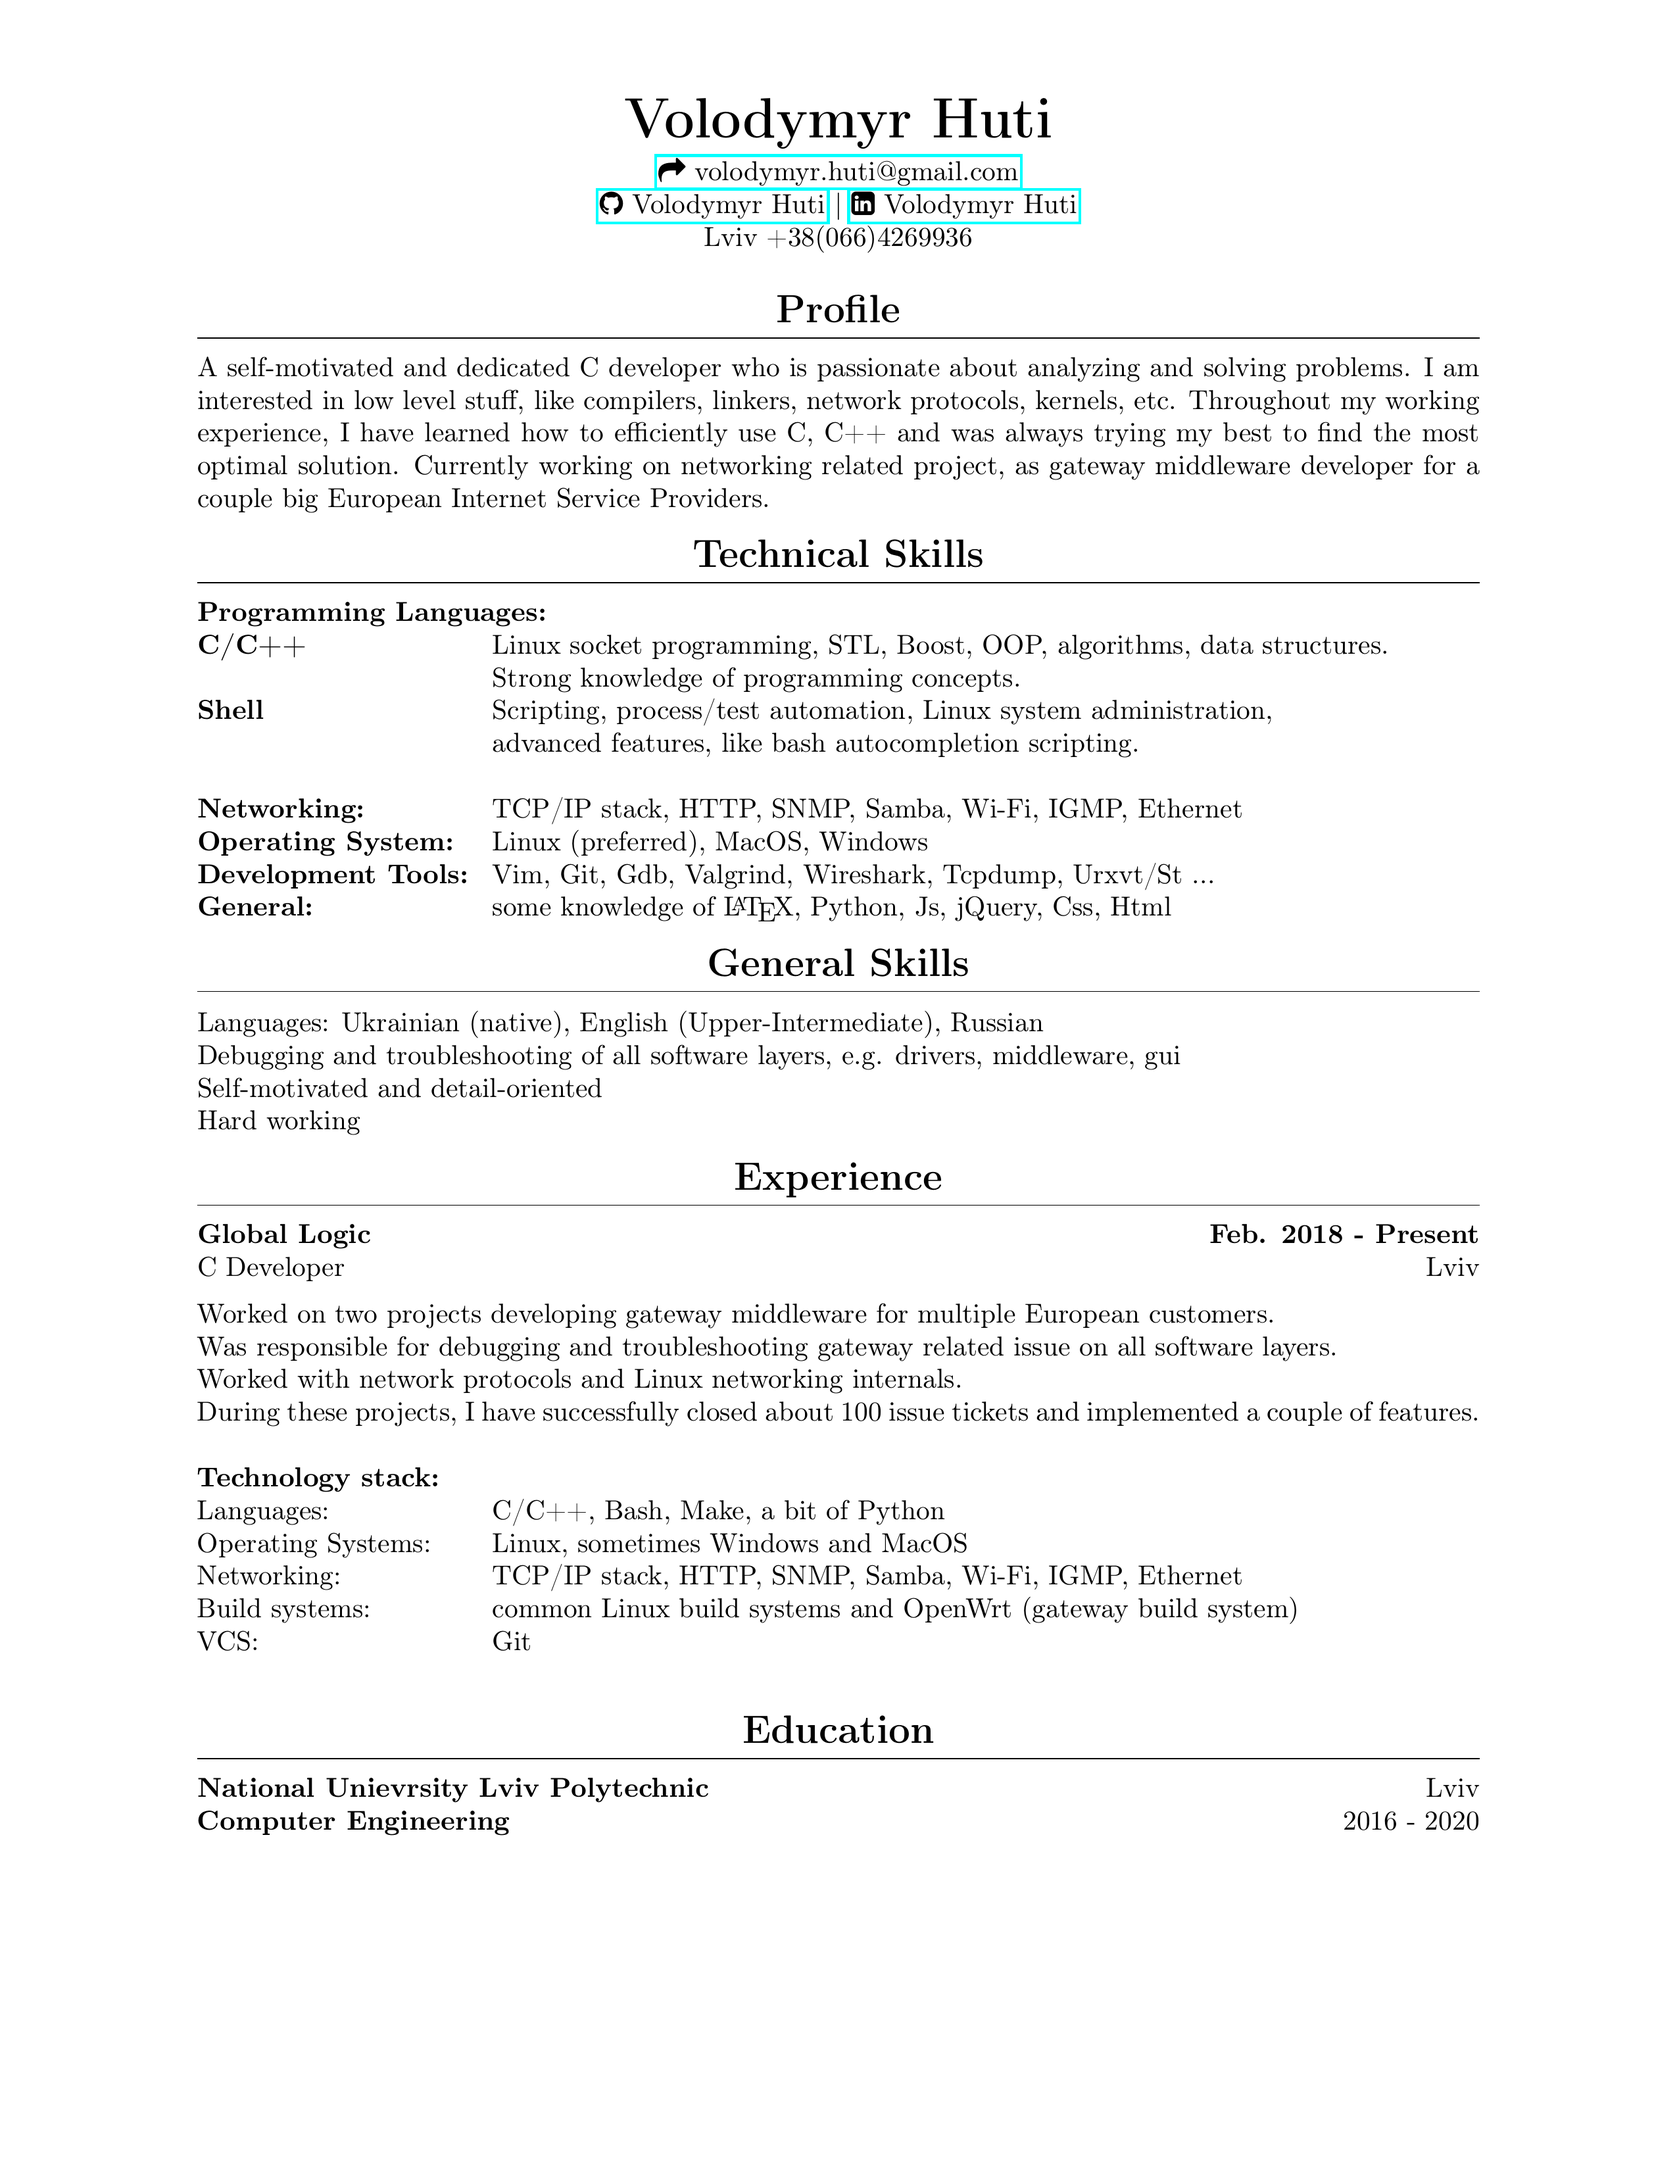
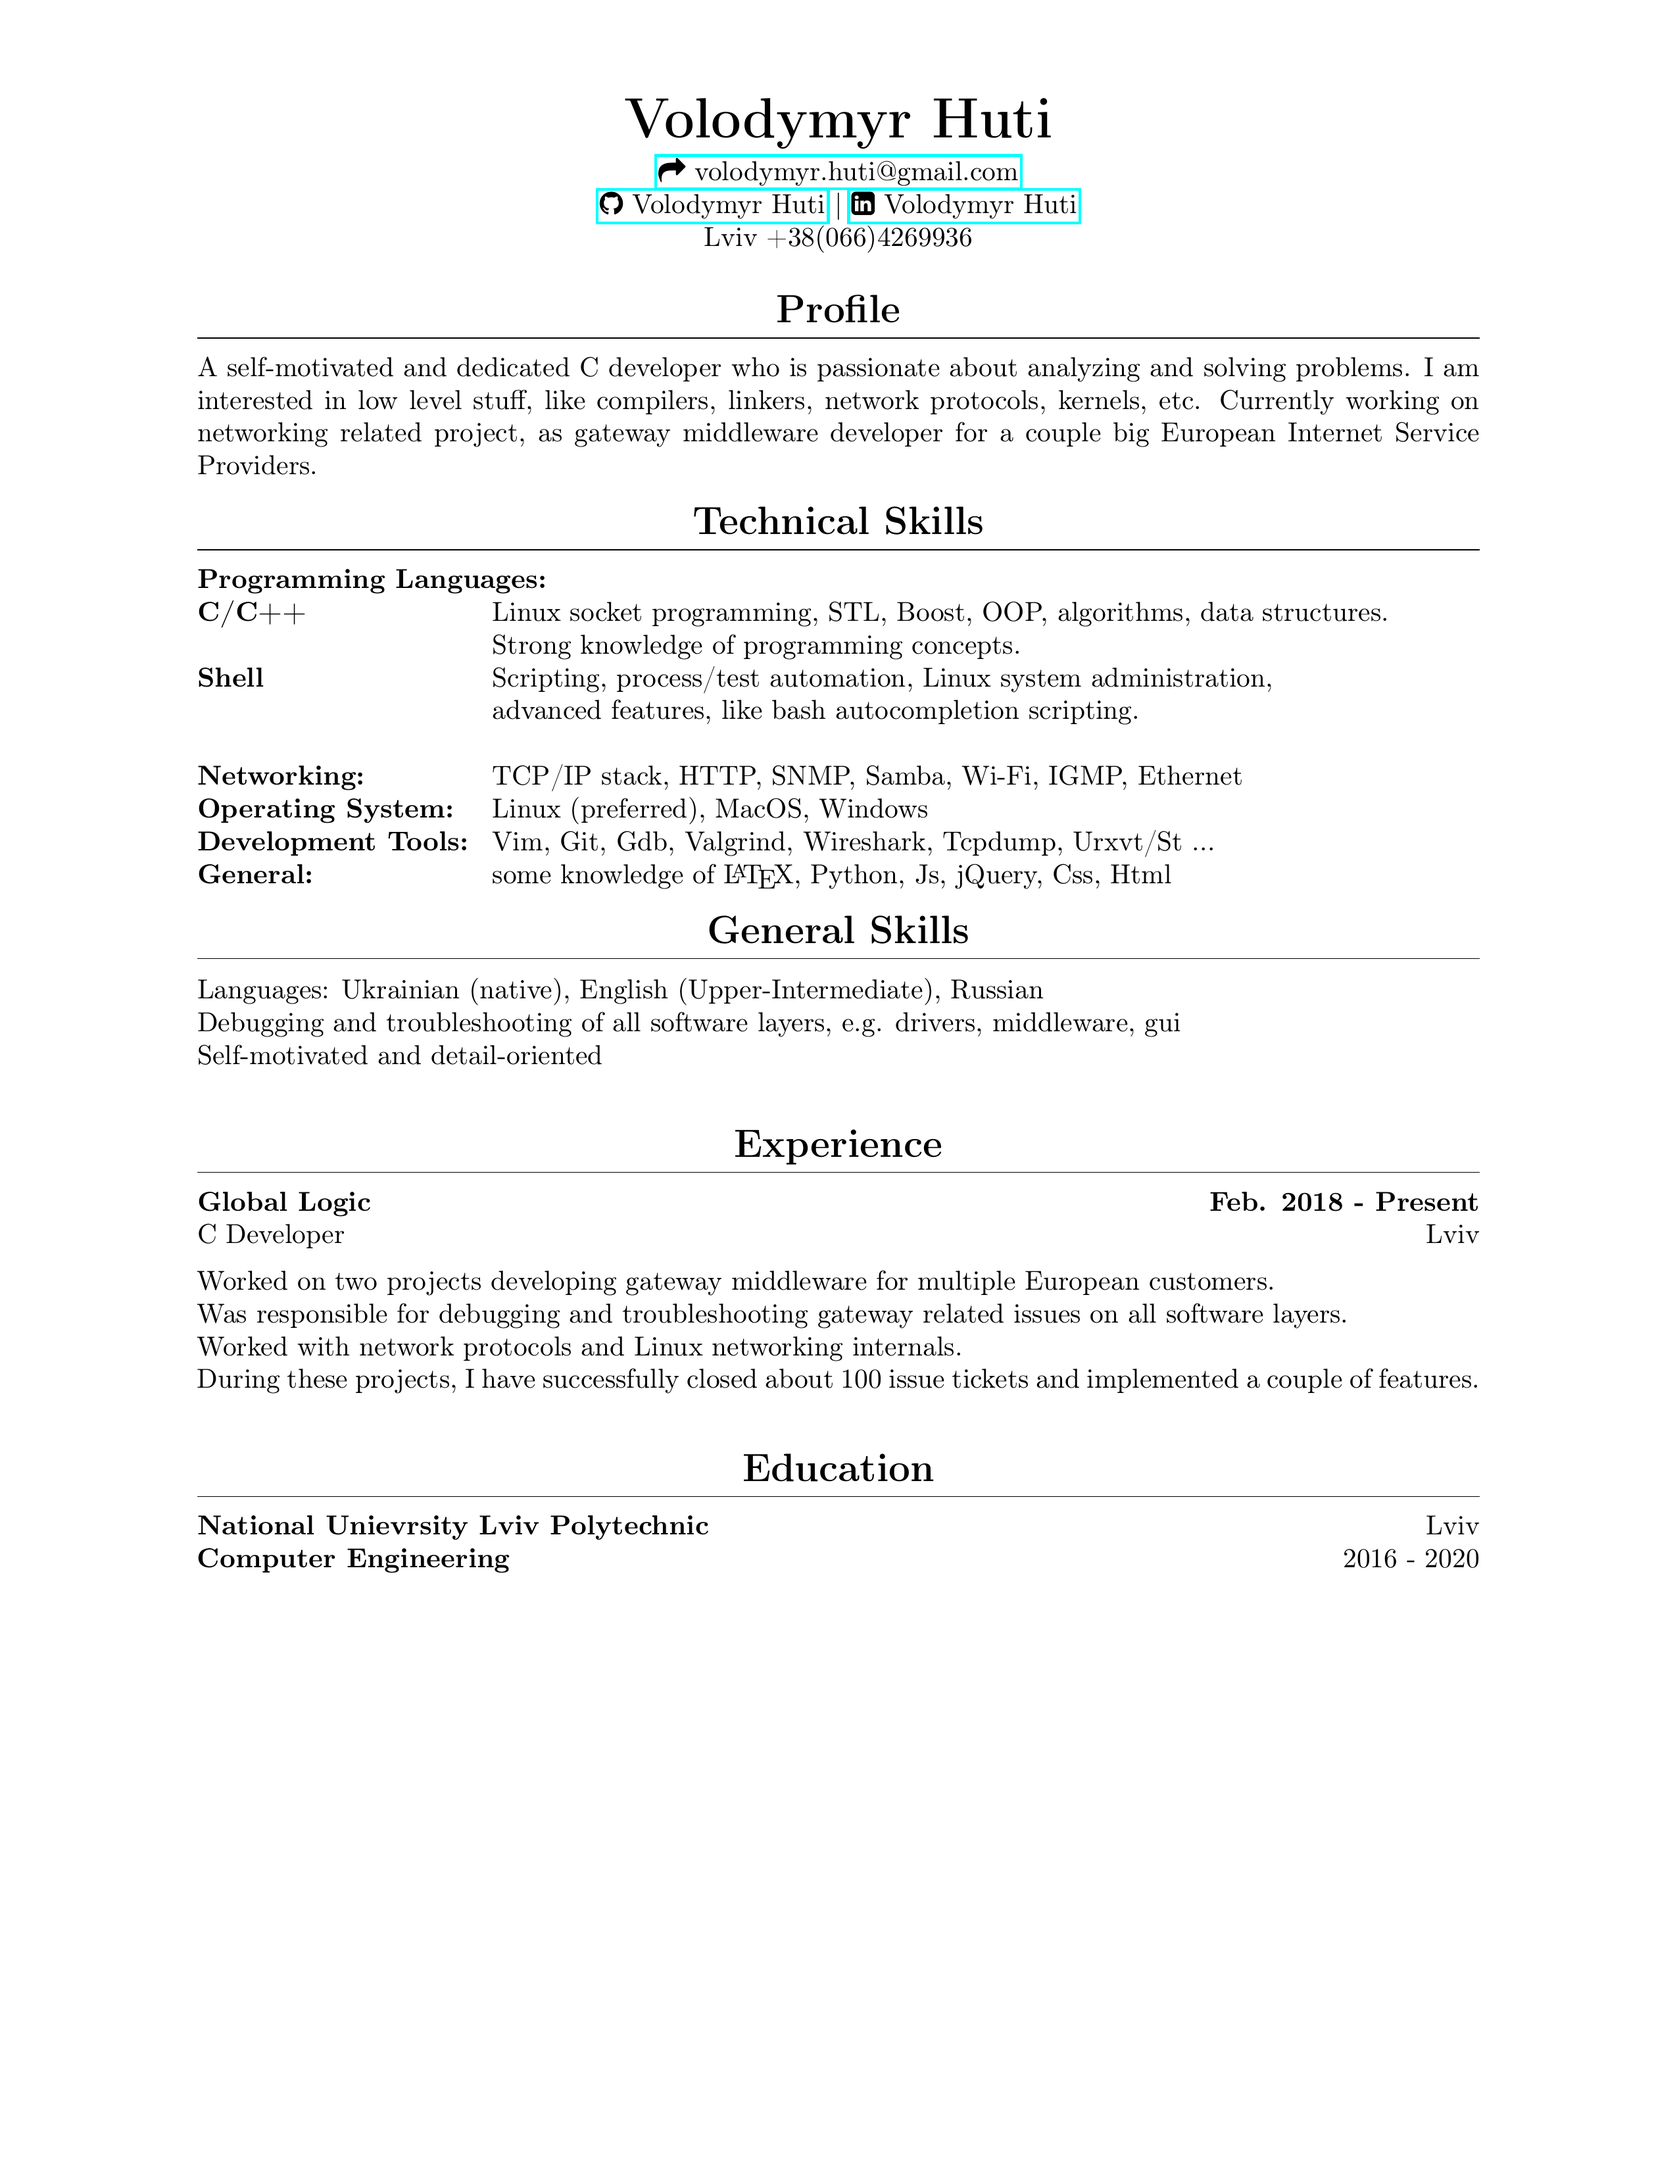
Remove unneded/duplicated info

diff --git a/cv.tex b/cv.tex
@@ -59,9 +59,8 @@
 \section{Profile}
 A self-motivated and dedicated C developer who is passionate about analyzing and solving problems.
 I am interested in low level stuff, like compilers, linkers, network protocols, kernels, etc.
-Throughout my working experience, I have learned how to efficiently use C, C++  and was always trying
-my best to find the most optimal solution. Currently working on networking related project, as gateway
-middleware developer for a couple big European Internet Service Providers.
+Currently working on networking related project, as gateway middleware developer for a couple big
+European Internet Service Providers.
 
 \section{Technical Skills}
 \textbf{Programming Languages:}
@@ -80,7 +79,6 @@ middleware developer for a couple big European Internet Service Providers.
 Languages: Ukrainian (native), English (Upper-Intermediate), Russian\\
 Debugging and troubleshooting of all software layers, e.g. drivers, middleware, gui\\
 Self-motivated and detail-oriented\\
-Hard working
 
 \section{Experience}
 {\bfseries
@@ -89,18 +87,18 @@ Global Logic \hspace*{\fill}Feb. 2018 - Present\\
 \vspace{0.5em}
 C Developer  \hspace*{\fill}Lviv\\
 Worked on two projects developing gateway middleware for multiple European customers.\\
-Was responsible for debugging and troubleshooting gateway related issue on all software layers.\\
+Was responsible for debugging and troubleshooting gateway related issues on all software layers.\\
 Worked with network protocols and Linux networking internals.\\
 During these projects, I have successfully closed about 100 issue tickets and implemented a couple of features.\\
 
-\textbf{Technology stack:}
-\begin{description}[align=left,leftmargin=3.8cm,style=multiline,font=\normalfont]
-\item[Languages:] C/C++, Bash, Make, a bit of Python
-\item[Operating Systems:] Linux, sometimes Windows and MacOS
-\item[Networking:] TCP/IP stack, HTTP, SNMP, Samba, Wi-Fi, IGMP, Ethernet
-\item[Build systems:] common Linux build systems and OpenWrt (gateway build system)
-\item[VCS:] Git\\
-\end{description}
+% \textbf{Technology stack:}
+% \begin{description}[align=left,leftmargin=3.8cm,style=multiline,font=\normalfont]
+% \item[Languages:] C/C++, Bash, Make, a bit of Python
+% \item[Operating Systems:] Linux, sometimes Windows and MacOS
+% \item[Networking:] TCP/IP stack, HTTP, SNMP, Samba, Wi-Fi, IGMP, Ethernet
+% \item[Build systems:] common Linux build systems and OpenWrt (gateway build system)
+% \item[VCS:] Git\\
+% \end{description}
 
 \section{Education}
 \textbf{National Unievrsity Lviv Polytechnic}\hspace*{\fill}Lviv\\
